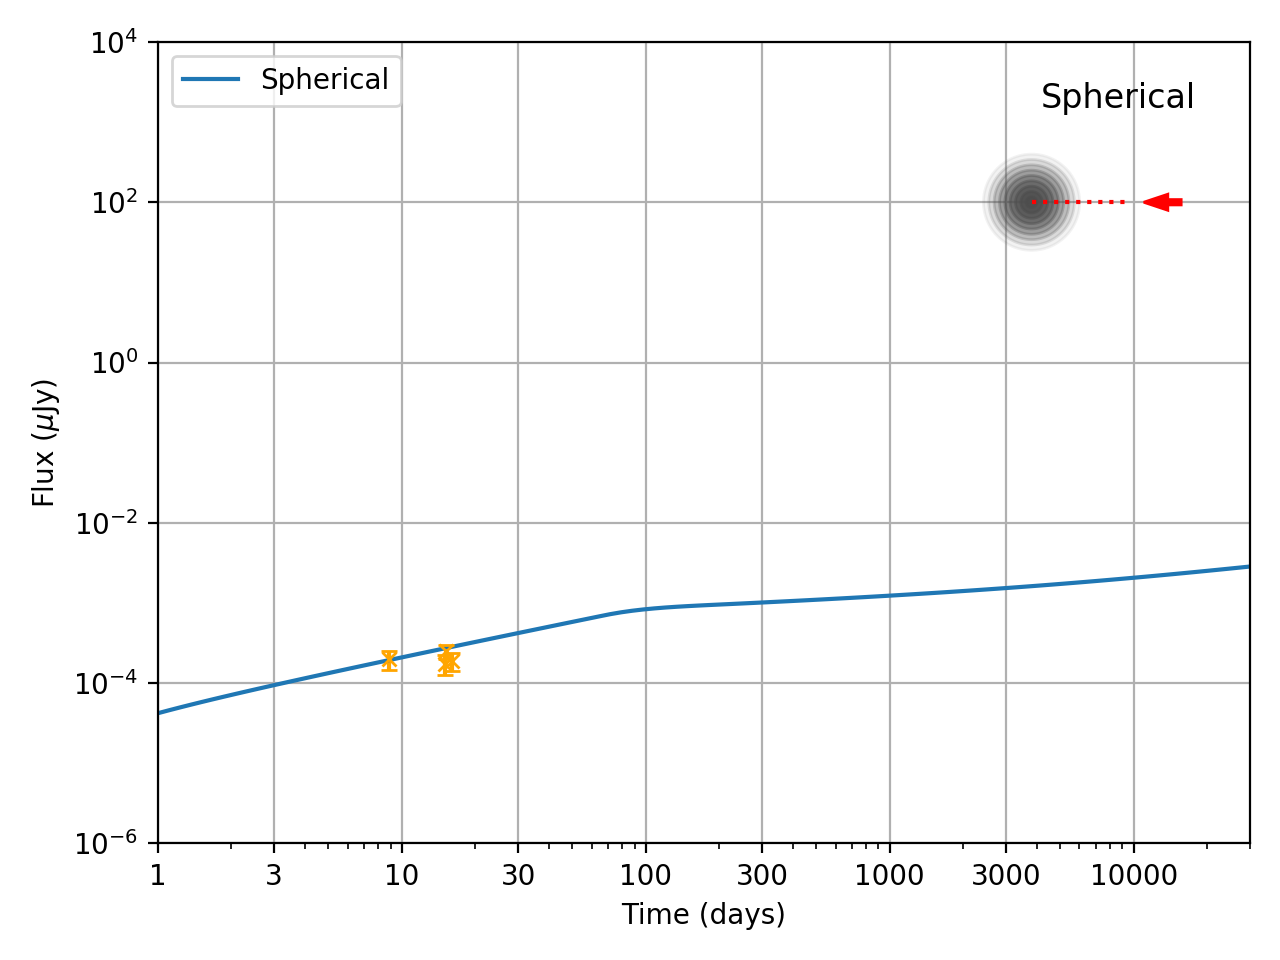
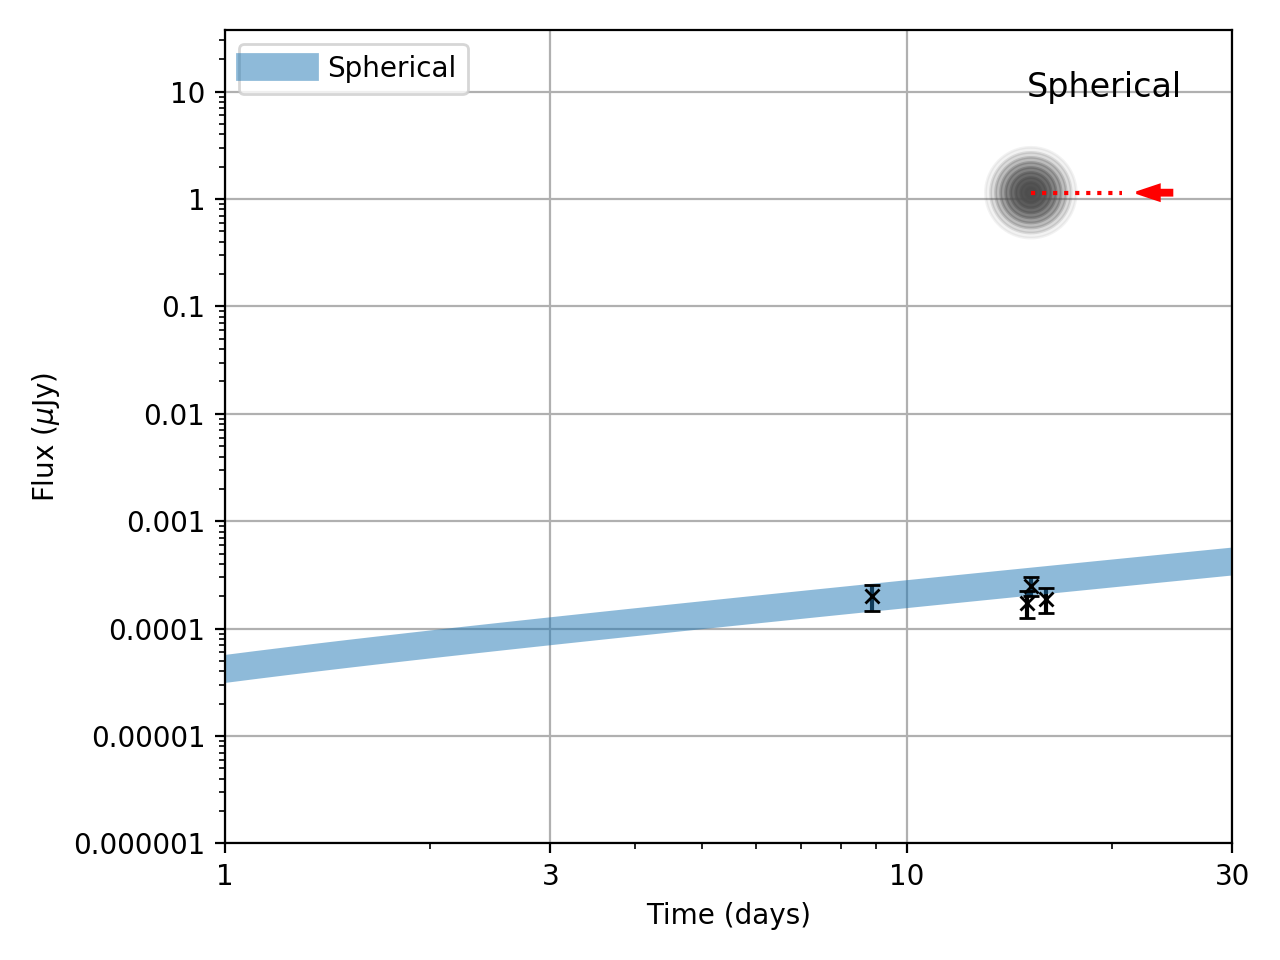
Added broad jets; tweaked plotting

diff --git a/xray/python/plotGrid_JetCocoon.py b/xray/python/plotGrid_JetCocoon.py
@@ -11,8 +11,11 @@ import astropy.units as u
 plt.ion()
 
 plotDir='plots'
-dataMin=0
-dataMax=0
+dataMin=180
+dataMax=1000
+tMin=100
+tMax=3000
+dataLim=False
 gridName='Jet_Gaussian-TopHat_0-40deg_Cocoon'
 
 # Jet Parameters
@@ -32,112 +35,50 @@ Z = {'jetType':     grb.jet.Gaussian,     # Tapered beam jet
 
 
 models={
-    # 'Gaussian-0-1Gly':{'label2':r'Tapered beam','plot':0,'legend':r'$D=$1bn ly',
-    #     'pars':{'jetType':grb.jet.Gaussian,'thetaObs':np.deg2rad(0),'d_L':1e9*u.lyr.to(u.cm)}},
-    # 'Gaussian-0-100Mly':{'color':'orange','plot':0,'legend':r'$D=$100 Mly',
-    #     'pars':{'jetType':grb.jet.Gaussian,'thetaObs':np.deg2rad(0),'d_L':1e8*u.lyr.to(u.cm)}},
-    # 'Gaussian-0-10Mly':{'color':'green','plot':0,'legend':r'$D=$10 Mly',
-    #     'pars':{'jetType':grb.jet.Gaussian,'thetaObs':np.deg2rad(0),'d_L':1e7*u.lyr.to(u.cm)}},
-        
-    'Gaussian-0':{'plot':0,'legend':r'Tapered Jet',
-        'label2':r'$\theta=0^\circ$',
+    'Gaussian-0':{'plot':0,'legend':r'Tapered Jet','legendloc':'lower left',
+        'label2':r'$\theta=0^\circ$','color':'#0000ff',
         'pars':{'jetType':grb.jet.Gaussian,'thetaObs':np.deg2rad(0),'d_L':1.2e8*u.lyr.to(u.cm)}},
-    'TopHat-0':{'plot':0,'legend':'Sharp-edged Jet',
+    'TopHat-0':{'plot':0,'legend':'Sharp-edged Jet','legendloc':'lower left','color':'#ffff00',
         'pars':{'jetType':grb.jet.TopHat,'thetaObs':np.deg2rad(0),'d_L':1.2e8*u.lyr.to(u.cm)}},
+    'Wide-0':{'plot':0,'legend':r'($\theta=0^\circ$)','legend':'Broad Jet','legendloc':'lower left','color':'#009600',
+        'pars':{'jetType':grb.jet.Gaussian,'thetaCore':np.deg2rad(20),'E0':1e52,'thetaObs':np.deg2rad(0),'d_L':1.2e8*u.lyr.to(u.cm)}},
         
     'Gaussian-10':{'plot':1,'legend':r'Tapered Jet',
-        'label2':r'$\theta=10^\circ$',
+        'label2':r'$\theta=10^\circ$','color':'#0000ff',
         'pars':{'jetType':grb.jet.Gaussian,'thetaObs':np.deg2rad(10),'d_L':1.2e8*u.lyr.to(u.cm)}},
-    'TopHat-10':{'plot':1,'legend':'Sharp-edged Jet',
+    'TopHat-10':{'plot':1,'legend':'Sharp-edged Jet','color':'#ffff00',
         'pars':{'jetType':grb.jet.TopHat,'thetaObs':np.deg2rad(10),'d_L':1.2e8*u.lyr.to(u.cm)}},
+    'Wide-10':{'plot':1,'legend':r'($\theta=10^\circ$)','legend':'Broad Jet','color':'#009600',
+        'pars':{'jetType':grb.jet.Gaussian,'thetaCore':np.deg2rad(20),'E0':1e52,'thetaObs':np.deg2rad(10),'d_L':1.2e8*u.lyr.to(u.cm)}},
     
     'Gaussian-20':{'plot':2,'legend':r'Tapered Jet',
-        'label2':r'$\theta=20^\circ$',
+        'label2':r'$\theta=20^\circ$','color':'#0000ff',
         'pars':{'jetType':grb.jet.Gaussian,'thetaObs':np.deg2rad(20),'d_L':1.2e8*u.lyr.to(u.cm)}},
-    'TopHat-20':{'plot':2,'legend':'Sharp-edged Jet',
+    'TopHat-20':{'plot':2,'legend':'Sharp-edged Jet','color':'#ffff00',
         'pars':{'jetType':grb.jet.TopHat,'thetaObs':np.deg2rad(20),'d_L':1.2e8*u.lyr.to(u.cm)}},
+    'Wide-20':{'plot':2,'legend':r'($\theta=20^\circ$)','legend':'Broad Jet','color':'#009600',
+        'pars':{'jetType':grb.jet.Gaussian,'thetaCore':np.deg2rad(20),'E0':1e52,'thetaObs':np.deg2rad(20),'d_L':1.2e8*u.lyr.to(u.cm)}},
     
     'Gaussian-30':{'plot':3,'legend':r'Tapered Jet',
-        'label2':r'$\theta=30^\circ$',
+        'label2':r'$\theta=30^\circ$','color':'#0000ff',
         'pars':{'jetType':grb.jet.Gaussian,'thetaObs':np.deg2rad(30),'d_L':1.2e8*u.lyr.to(u.cm)}},
-    'TopHat-30':{'plot':3,'legend':r'($\theta=30^\circ$)','legend':'Sharp-edged Jet',
+    'TopHat-30':{'plot':3,'legend':r'($\theta=30^\circ$)','legend':'Sharp-edged Jet','color':'#ff0000',
         'pars':{'jetType':grb.jet.TopHat,'thetaObs':np.deg2rad(30),'d_L':1.2e8*u.lyr.to(u.cm)}},
+    'Wide-30':{'plot':3,'legend':r'($\theta=30^\circ$)','legend':'Broad Jet','color':'#009600',
+        'pars':{'jetType':grb.jet.Gaussian,'thetaCore':np.deg2rad(20),'E0':1e52,'thetaObs':np.deg2rad(30),'d_L':1.2e8*u.lyr.to(u.cm)}},
         
     'Gaussian-40':{'plot':4,'legend':r'Tapered Jet',
-        'label2':r'$\theta=40^\circ$',
+        'label2':r'$\theta=40^\circ$','color':'#0000ff',
         'pars':{'jetType':grb.jet.Gaussian,'thetaObs':np.deg2rad(40),'d_L':1.2e8*u.lyr.to(u.cm)}},
-    'TopHat-40':{'plot':4,'legend':r'($\theta=40^\circ$)','legend':'Sharp-edged Jet',
+    'TopHat-40':{'plot':4,'legend':r'($\theta=40^\circ$)','legend':'Sharp-edged Jet','color':'#ffff00',
         'pars':{'jetType':grb.jet.TopHat,'thetaObs':np.deg2rad(40),'d_L':1.2e8*u.lyr.to(u.cm)}},
+    'Wide-40':{'plot':4,'legend':r'($\theta=40^\circ$)','legend':'Broad Jet','color':'#009600',
+        'pars':{'jetType':grb.jet.Gaussian,'thetaCore':np.deg2rad(20),'E0':1e52,'thetaObs':np.deg2rad(40),'d_L':1.2e8*u.lyr.to(u.cm)}},
         
-    'Spherical':{'label2':r'Spherical','plot':5,'legend':r'Spherical',
+    'Spherical':{'label2':r'Spherical','plot':5,'legend':r'Spherical','color':'#ff00ff',
         'pars':{'jetType':grb.jet.Spherical,'thetaObs':np.deg2rad(0),
         'd_L':1.2e8*u.lyr.to(u.cm),'uMax':8.5,'uMin':1e-4,'k':5.6,
         'Er':3e53,'MFast_solar':10**-6.5,'p':2.156,'epsilon_e':10**-2.7,'epsilon_B':10**-2.5}},
-    
-        
-    # 'Spherical-0-1Gly_0.01-8.5':{'label2':r'Spherical','plot':4,'legend':r'Bestfit (cocoon)',
-    #     'pars':{'jetType':grb.jet.Spherical,'thetaObs':np.deg2rad(0),'d_L':1.2e8*u.lyr.to(u.cm),'uMax':8.5,'uMin':0.01,'k':5.6,'Er':1e54,'MFast_solar':1e-5,'p':2.156,'epsilon_e':1e-1,'epsilon_B':1e-3}},
-    # 'Spherical-0-1Gly_1e51':{'label2':r'Spherical','plot':4,'legend':r'Er1e51',
-    #     'pars':{'jetType':grb.jet.Spherical,'thetaObs':np.deg2rad(0),
-    #     'd_L':1.2e8*u.lyr.to(u.cm),'uMax':8.5,'uMin':1e-4,'k':5.6,
-    #     'Er':3e53,'MFast_solar':10**-6.5,'p':2.156,'epsilon_e':10**-2.7,'epsilon_B':10**-2.5}},
-    # 'Jet-Bestfit':{'plot':4,'legend':r'Bestfit (jet)',
-    #     'pars':{'jetType':grb.jet.Gaussian,'thetaObs':np.deg2rad(20),'d_L':1.2e8*u.lyr.to(u.cm)}},
-    # 'Spherical-0-1Gly_0.67-3.5':{'label2':r'Spherical','plot':4,'legend':r'0.67-186',
-    #     'pars':{'jetType':grb.jet.Spherical,'thetaObs':np.deg2rad(0),'d_L':1e9*u.lyr.to(u.cm),'uMax':18.6,'uMin':0.67,'k':5,'Er':1e51,'MFast_solar':5e-2}},
-    # 'Spherical-0-1Gly_0.67-18.6':{'plot':4,'legend':r'0.67-1.67',
-    #     'pars':{'jetType':grb.jet.Spherical,'thetaObs':np.deg2rad(0),'d_L':1e9*u.lyr.to(u.cm),'uMax':18.6,'uMin':1.67,'k':5,'Er':1e51,'MFast_solar':5e-2}},
-    # 'Spherical-0-1Gly_1.25-3.5':{'plot':4,'legend':r'1.25-3.5',
-    #     'pars':{'jetType':grb.jet.Spherical,'thetaObs':np.deg2rad(0),'d_L':1e9*u.lyr.to(u.cm),'uMax':3.5,'uMin':1.25,'k':5,'Er':1e51,'MFast_solar':5e-2}},
-    
-    # 'Gaussian-10-1Gly':{'label2':r'Tapered beam $\theta=10^\circ$','plot':1,'legend':r'$D=$1bn ly',
-    #     'pars':{'jetType':grb.jet.Gaussian,'thetaObs':np.deg2rad(10),'d_L':1e9*u.lyr.to(u.cm)}},
-    # 'Gaussian-10-100Mly':{'plot':1,'legend':r'$D=$100 Mly',
-    #     'pars':{'jetType':grb.jet.Gaussian,'thetaObs':np.deg2rad(10),'d_L':1e8*u.lyr.to(u.cm)}},
-    # 'Gaussian-10-10Mly':{'plot':1,'legend':r'$D=$10 Mly',
-    #     'pars':{'jetType':grb.jet.Gaussian,'thetaObs':np.deg2rad(10),'d_L':1e7*u.lyr.to(u.cm)}},
-    # 
-    # 'Gaussian-20-1Gly':{'label2':r'Tapered beam','plot':2,'legend':r'$D=$1bn ly',
-    #     'pars':{'jetType':grb.jet.Gaussian,'thetaObs':np.deg2rad(20),'d_L':1e9*u.lyr.to(u.cm)}},
-    # 'Gaussian-20-100Mly':{'plot':2,'legend':r'$D=$100 Mly',
-    #     'pars':{'jetType':grb.jet.Gaussian,'thetaObs':np.deg2rad(20),'d_L':1e8*u.lyr.to(u.cm)}},
-    # 'Gaussian-20-10Mly':{'plot':2,'legend':r'$D=$10 Mly',
-    #     'pars':{'jetType':grb.jet.Gaussian,'thetaObs':np.deg2rad(20),'d_L':1e7*u.lyr.to(u.cm)}},
-    # 
-    # 'Gaussian-30-1Gly':{'label2':r'Tapered beam','plot':3,'legend':r'$D=$1bn ly',
-    #     'pars':{'jetType':grb.jet.Gaussian,'thetaObs':np.deg2rad(30),'d_L':1e9*u.lyr.to(u.cm)}},
-    # 'Gaussian-30-100Mly':{'plot':3,'legend':r'$D=$100 Mly',
-    #     'pars':{'jetType':grb.jet.Gaussian,'thetaObs':np.deg2rad(30),'d_L':1e8*u.lyr.to(u.cm)}},
-    # 'Gaussian-30-10Mly':{'plot':3,'legend':r'$D=$10 Mly',
-    #     'pars':{'jetType':grb.jet.Gaussian,'thetaObs':np.deg2rad(30),'d_L':1e7*u.lyr.to(u.cm)}},
-    
-    # 'TopHat-0-1Gly':{'label2':r'Spherical','plot':4,'legend':r'$D=$1bn ly',
-    #     'pars':{'jetType':grb.jet.TopHat,'thetaObs':np.deg2rad(0),'d_L':1e9*u.lyr.to(u.cm)}},
-    # 'TopHat-0-100Mly':{'plot':4,'legend':r'$D=$100 Mly',
-    #     'pars':{'jetType':grb.jet.TopHat,'thetaObs':np.deg2rad(0),'d_L':1e8*u.lyr.to(u.cm)}},
-    # 'TopHat-0-10Mly':{'plot':4,'legend':r'$D=$10 Mly',
-    #     'pars':{'jetType':grb.jet.TopHat,'thetaObs':np.deg2rad(0),'d_L':1e7*u.lyr.to(u.cm)}},
-    
-    # 'TopHat-10-1Gly':{'label2':r'Sharp-edged beam','plot':5,'legend':r'$D=$1bn ly',
-    #     'pars':{'jetType':grb.jet.TopHat,'thetaObs':np.deg2rad(10),'d_L':1e9*u.lyr.to(u.cm)}},
-    # 'TopHat-10-100Mly':{'plot':5,'legend':r'$D=$100 Mly',
-    #     'pars':{'jetType':grb.jet.TopHat,'thetaObs':np.deg2rad(10),'d_L':1e8*u.lyr.to(u.cm)}},
-    # 'TopHat-10-10Mly':{'plot':5,'legend':r'$D=$10 Mly',
-    #     'pars':{'jetType':grb.jet.TopHat,'thetaObs':np.deg2rad(10),'d_L':1e7*u.lyr.to(u.cm)}},
-    # 
-    # 'TopHat-20-1Gly':{'label2':r'Sharp-edged beam','plot':6,'legend':r'$D=$1bn ly',
-    #     'pars':{'jetType':grb.jet.TopHat,'thetaObs':np.deg2rad(20),'d_L':1e9*u.lyr.to(u.cm)}},
-    # 'TopHat-20-100Mly':{'plot':6,'legend':r'$D=$100 Mly',
-    #     'pars':{'jetType':grb.jet.TopHat,'thetaObs':np.deg2rad(20),'d_L':1e8*u.lyr.to(u.cm)}},
-    # 'TopHat-20-10Mly':{'plot':6,'legend':r'$D=$10 Mly',
-    #     'pars':{'jetType':grb.jet.TopHat,'thetaObs':np.deg2rad(20),'d_L':1e7*u.lyr.to(u.cm)}},
-    # 
-    # 'TopHat-30-1Gly':{'label2':r'Sharp-edged beam','plot':7,'legend':r'$D=$1bn ly',
-    #     'pars':{'jetType':grb.jet.TopHat,'thetaObs':np.deg2rad(30),'d_L':1e9*u.lyr.to(u.cm)}},
-    # 'TopHat-30-100Mly':{'plot':7,'legend':r'$D=$100 Mly',
-    #     'pars':{'jetType':grb.jet.TopHat,'thetaObs':np.deg2rad(30),'d_L':1e8*u.lyr.to(u.cm)}},
-    # 'TopHat-30-10Mly':{'plot':7,'legend':r'$D=$10 Mly',
-    #     'pars':{'jetType':grb.jet.TopHat,'thetaObs':np.deg2rad(30),'d_L':1e7*u.lyr.to(u.cm)}},
 }
 
 # Time and Frequencies
@@ -213,19 +154,15 @@ for m in models:
     ax=axes[x,y]
     color=models[m].get('color',None)
     label=models[m].get('legend',m)
+
+    legendloc=models[m].get('legendloc','upper left')
     # ax.plot(tday[:,0], models[m]['Fnu'][:,0]*1e6, ls='-', label=label)
     xray.plotModels(ax,tday,models[m],label=label,fact=1e3,
-        ylabel=r'Flux ($\mu$Jy)',ylim=[1e-6,1e4],xlim=[1,3e4])
-    axes[0,0].set_yticks([1e-6,1e-4,1e-2,1,1e2,1e4])
-    axes[0,0].set_yticklabels(["0.000001","0.0001","0.01","1","100","10,000"])
-    
+        ylabel=r'Flux ($\mu$Jy)',xlim=[tMin,tMax],legendloc=legendloc)
     xray.plotModels(axind,tday,models[m],label=label,fact=1e3,
-        ylabel=r'Flux ($\mu$Jy)',ylim=[1e-6,1e4],xlim=[1,3e4])
-    axes[0,0].set_yticks([1e-6,1e-4,1e-2,1,1e2,1e4])
-    axes[0,0].set_yticklabels(["0.000001","0.0001","0.01","1","100","10,000"])
-    # ax[x,y].set_title(titles[p])
-    # if p==0:
-    #     ax[x,y].legend()
+        ylabel=r'Flux ($\mu$Jy)',xlim=[tMin,tMax],legendloc=legendloc)
+    
+    
     if not insPlotted[plot]:
         axins=ax.inset_axes([0.65,0.75,0.3,0.2])
         xray.plotInset(axins,models[m],thetaObs=models[m]['pars']['thetaObs'])
@@ -235,9 +172,28 @@ for m in models:
         insPlotted[plot]=True
     
     if dataMax>0 and not dataPlotted[plot]:
-        xray.plotData(ax,dataMin=dataMin,dataMax=dataMax)
-        xray.plotData(axind,dataMin=dataMin,dataMax=dataMax)
+        xray.plotData(ax,dataMin=dataMin,dataMax=dataMax,setlim=dataLim)
+        xray.plotData(axind,dataMin=dataMin,dataMax=dataMax,setlim=dataLim)
         dataPlotted[plot]=True
+
+    ylim=[1e-6,1e4]
+    ylimdef=axes[0,0].get_ylim()
+    ylim=[np.max([ylim[0],ylimdef[0]]),np.min([ylim[1],ylimdef[1]])]
+    axes[0,0].set_ylim(ylim)
+    axind.set_ylim(ylim)
+    if ylim[1]/ylim[0]>1e8:
+        yticks=np.array([1e-6,1e-4,1e-2,1,1e2,1e4])
+        yticklabels=np.array(["0.000001","0.0001","0.01","1","100","10,000"])
+    else:
+        yticks=np.array([1e-6,1e-5,1e-4,1e-3,1e-2,1e-1,1,1e1,1e2,1e3,1e4])
+        yticklabels=np.array(["0.000001","0.00001","0.0001","0.001","0.01","0.1","1","10","100","1,000","10,000"])
+    axes[0,0].set_yticks(yticks[np.where((yticks>=ylim[0])&(yticks<=ylim[1]))])
+    axes[0,0].set_yticklabels(yticklabels[np.where((yticks>=ylim[0])&(yticks<=ylim[1]))])
+    axind.set_yticks(yticks[np.where((yticks>=ylim[0])&(yticks<=ylim[1]))])
+    axind.set_yticklabels(yticklabels[np.where((yticks>=ylim[0])&(yticks<=ylim[1]))])
+
+    # axes[0,0].set_xlim([tMin,tMax])
+    # axind.set_xlim([tMin,tMax])
         
 # axes[0,0].legend(loc='upper left')
 figgrid.tight_layout()
@@ -251,6 +207,8 @@ for p in range(len(figlist)):
             fnameGrid=fnameGrid+'_'+figlist[p]['models'][m]
         if dataMax>0:
             fname=fname+'_data{:d}-{:d}d'.format(dataMin,dataMax)
+            if dataLim:
+                fname=fname+'_datalim'
         else:
             fname=fname+'_nodata'
         fname=fname+'.png'
@@ -261,6 +219,8 @@ for p in range(len(figlist)):
 # fnameGrid=gridName
 if dataMax>0:
     fnameGrid=gridName+'_data{:d}-{:d}d'.format(dataMin,dataMax)
+    if dataLim:
+        fnameGrid=fnameGrid+'_datalim'
 else:
     fnameGrid=gridName+'_nodata'
 fnameGrid=fnameGrid+'.png'

diff --git a/xray/python/xray.py b/xray/python/xray.py
@@ -1,6 +1,6 @@
 import numpy as np
 
-def plotModels(ax,tday,models,ylim=[1e-6,1e8],xlim=[1,3000],fact=1,label=None,
+def plotModels(ax,tday,models,ylim=None,xlim=[1,3000],fact=1,label=None,
     showlegend=True,grid=True,ylabel=r'Flux (nJy)',**kwargs):
 
     if isinstance(models,dict):
@@ -14,10 +14,11 @@ def plotModels(ax,tday,models,ylim=[1e-6,1e8],xlim=[1,3000],fact=1,label=None,
         # label=mods[m].get('legend',None)
         # ax.plot(tday[:,0], models[m]['Fnu'][:,0]*1e6, ls='-', label=label)
         # print ('label:',label)
-        ax.plot(tday[:,0], mods[m]['Fnu'][:,0]*fact, ls='-', label=label)
+        ax.plot(tday[:,0], mods[m]['Fnu'][:,0]*fact, ls='-', label=label,lw=10,alpha=0.5)
         ax.set_xscale('log')
         ax.set_yscale('log')
-        ax.set_ylim(ylim[0],ylim[1])
+        if ylim!=None:
+            ax.set_ylim(ylim[0],ylim[1])
         ax.set_xlabel('Time (days)')
         ax.set_ylabel(ylabel)
         # ax.set_ylabel(r'$F_\nu$ (mJy)')
@@ -86,10 +87,11 @@ def plotInset(ax,model,thetaObs=0,thetaCore=0.1,thetaWing=0.4):
         
     return
     
-def plotData(ax,dataMin=0,dataMax=1e5,fact=1e6):
+def plotData(ax,dataMin=0,dataMax=1e5,tMin=0,tMax=1e4,fact=1e6,setlim=False):
     import pandas as pd
     dataIn=pd.read_csv('data/GW170817_xray.csv')
     # print(dataIn['Time'],dataIn['Flux Density Jy'])
+    dataPlot=dataIn[(dataIn['Time']>=dataMin)&(dataIn['Time']<=dataMax)]
     dataPlotErr=dataIn[(dataIn['Time']>=dataMin)&(dataIn['Time']<=dataMax)&(dataIn['Note']!='upper limit')]
     dataPlotUpper=dataIn[(dataIn['Time']>=dataMin)&(dataIn['Time']<=dataMax)&(dataIn['Note']=='upper limit')]
     # ax.plot(dataPlot['Time'],
@@ -97,10 +99,21 @@ def plotData(ax,dataMin=0,dataMax=1e5,fact=1e6):
     #     'x',label='Data')
     ax.plot(dataPlotUpper['Time'],
         dataPlotUpper['Flux Density Jy']*fact,
-        'v',color='orange')
+        'v',color='k')
     ax.errorbar(dataPlotErr['Time'],
         dataPlotErr['Flux Density Jy']*fact,
         yerr=dataPlotErr['Flux Density Error']*fact,
-        marker='x',label='Data',capsize=3,ms=5,linestyle='',color='orange')
+        marker='x',label='Data',capsize=3,ms=5,linestyle='',color='k')
+    if setlim:
+        miny=np.min(dataPlotErr['Flux Density Jy']-dataPlotErr['Flux Density Error'])
+        maxy=np.max(dataPlotErr['Flux Density Jy']+dataPlotErr['Flux Density Error'])
+        ax.set_ylim([fact*miny/2,fact*maxy*2])
+        # minx=np.min(dataPlot['Time'])/10
+        # maxx=np.max(dataPlot['Time'])*10
+        # ax.set_xlim(minx,maxx)
+        # dayticks=np.array([1,3,10,30,100,300,1000,3000,10000])
+        # dayticks=dayticks[np.where((dayticks>=minx)&(dayticks<=maxx))]
+        # ax.set_xticks(dayticks)
+        # ax.set_xticklabels(dayticks)
     return
     
